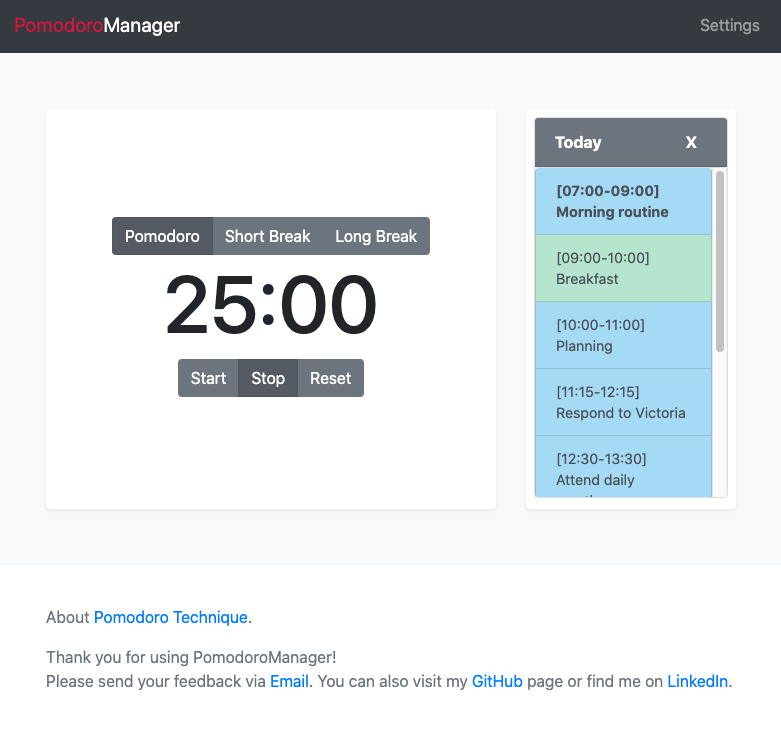
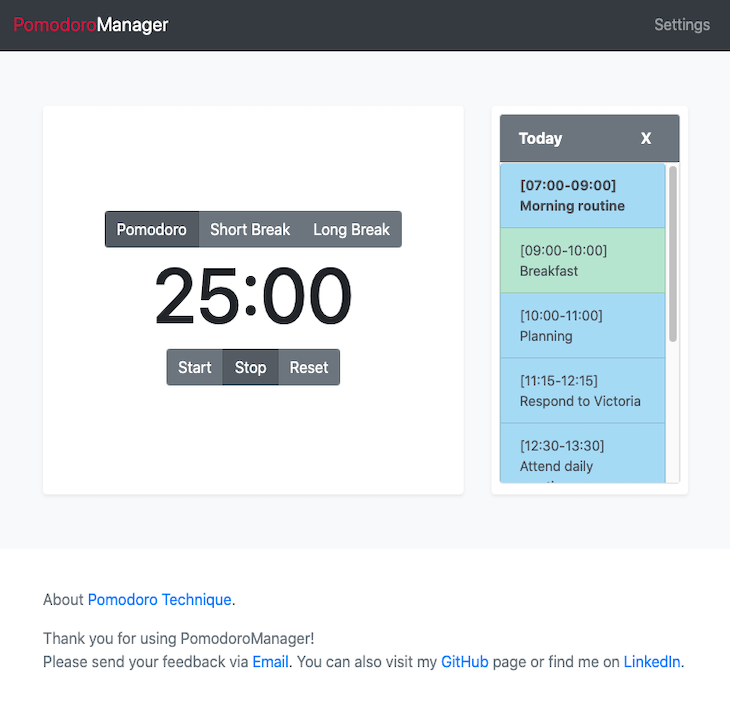
update

diff --git a/index.html b/index.html
@@ -144,8 +144,8 @@
 			
 			<div class="container">
 				<div class="row">
-				  <div class="col-sm-4">
-					<div class="card mb-3" style="width: 30rem">
+				  <div class="col-sm-8">
+					<div class="card mb-3">
 						<!-- <img class="card-img-top" src="./uploads/pomodoro_01.png" alt="Card image cap"> -->
 						<div id="carouselExampleIndicators" class="carousel slide" data-ride="carousel">
 							<ol class="carousel-indicators">
@@ -155,13 +155,13 @@
 							</ol>
 							<div class="carousel-inner">
 							  <div class="carousel-item active">
-								<img class="d-block w-100" style="height: 30rem; filter: brightness(90%)" src="./uploads/pomodoro_01.png" alt="First slide">
+								<img class="d-block w-100" style=" filter: brightness(90%)" src="./uploads/pomodoro_01.png" alt="First slide">
 							  </div>
 							  <div class="carousel-item">
-								<img class="d-block w-100" style="height: 30rem; filter: brightness(90%)" src="./uploads/pomodoro_02.png" alt="Third slide">
+								<img class="d-block w-100" style="filter: brightness(90%)" src="./uploads/pomodoro_02.png" alt="Third slide">
 							  </div>
 							  <div class="carousel-item">
-								<img class="d-block w-100" style="height: 30rem; filter: brightness(90%)" src="./uploads/pomodoro_03.png" alt="Fourth slide">
+								<img class="d-block w-100" style="filter: brightness(90%)" src="./uploads/pomodoro_03.png" alt="Fourth slide">
 							  </div>
 							</div>
 							<a class="carousel-control-prev" href="#carouselExampleIndicators" role="button" data-slide="prev">
